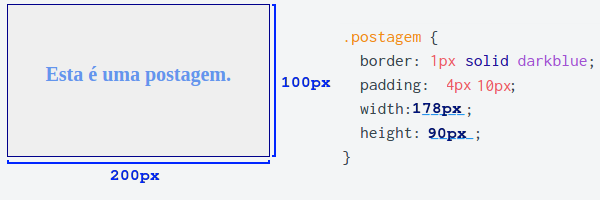
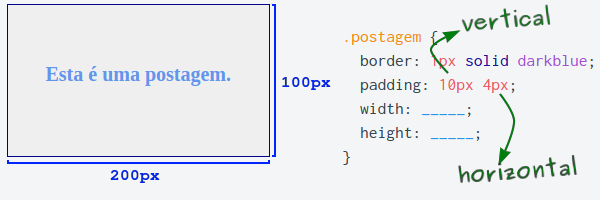
Final class html4

diff --git a/classes/html4/README.md b/classes/html4/README.md
@@ -293,6 +293,8 @@ Elementos `inline` ignoram os valores de:
 ::: figure .figure-slides.push-right
 ![](../../images/box-model-determine-dimensions-1.png)<!-- {.bullet.figure-step.bullet-no-anim.rounded} -->
 ![](../../images/box-model-determine-dimensions-2.png)<!-- {.bullet.figure-step.bullet-no-anim.rounded} -->
+![](../../images/box-model-determine-dimensions-3.png)<!-- {.bullet.figure-step.bullet-no-anim.rounded} -->
+![](../../images/box-model-determine-dimensions-4.png)<!-- {.bullet.figure-step.bullet-no-anim.rounded} -->
 :::
 - Contudo, fazer essa conta "nós mesmos" pode resultar em erros... <!-- {ul:.bullet} -->
   - É possível mudar isso!
